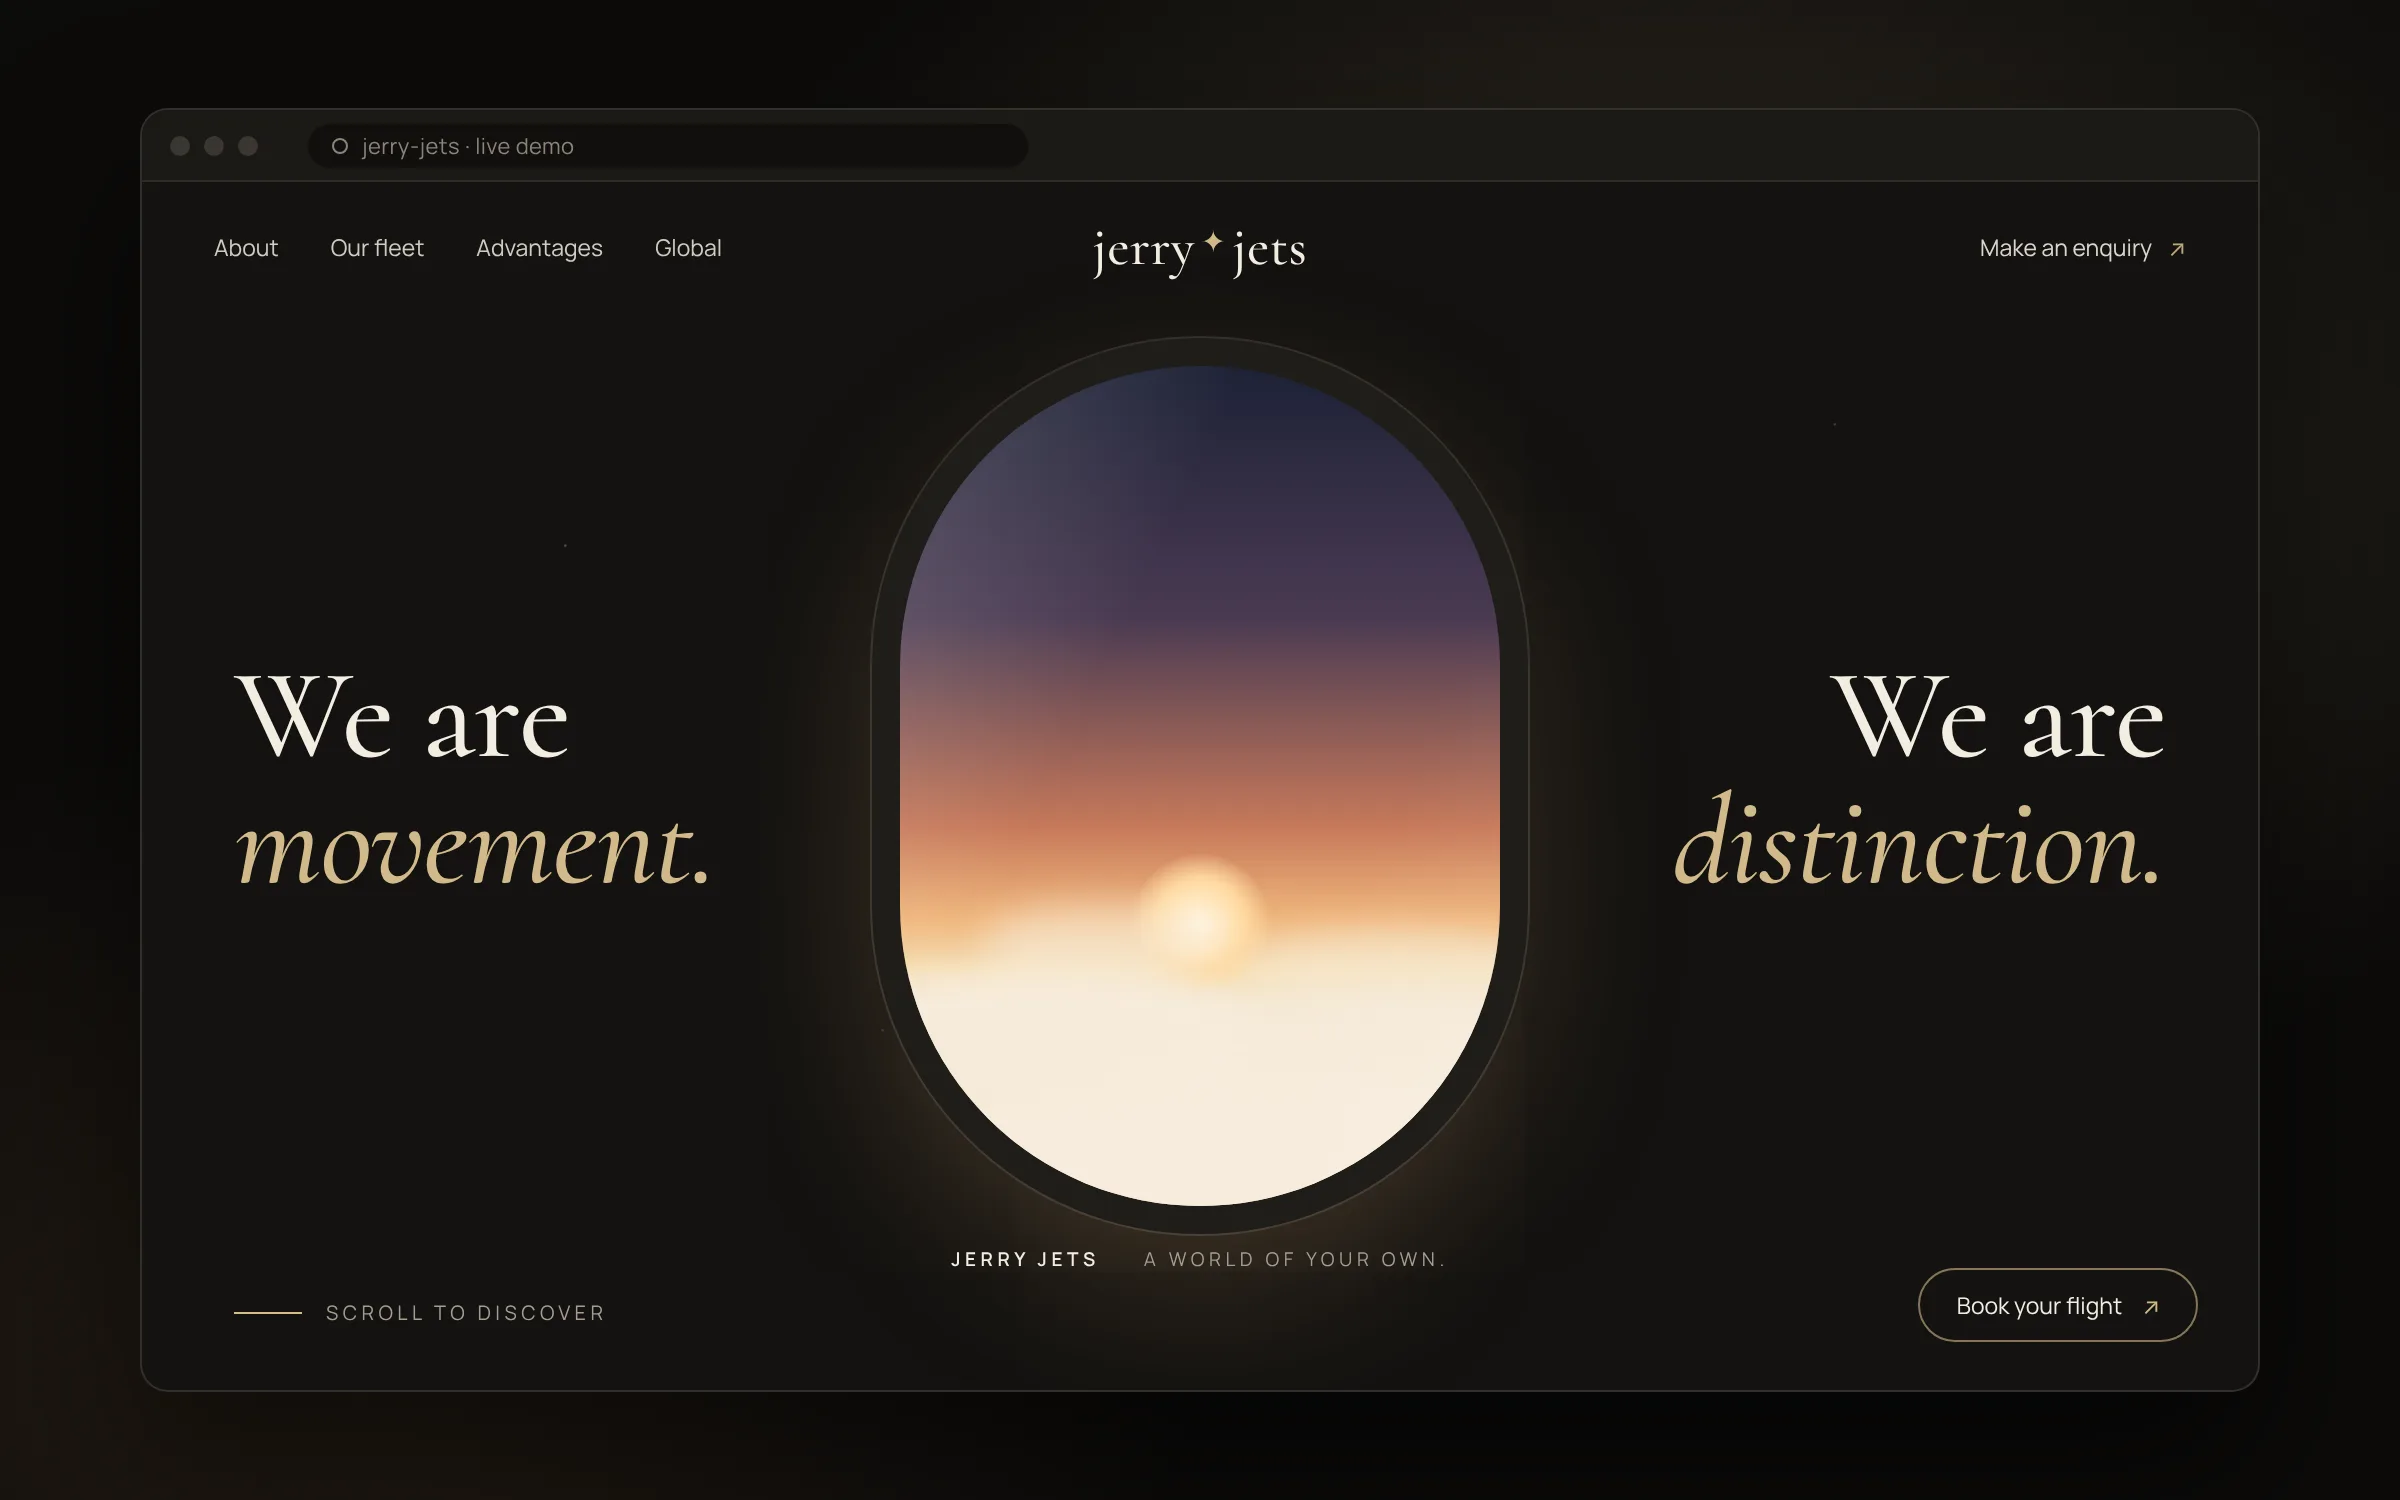
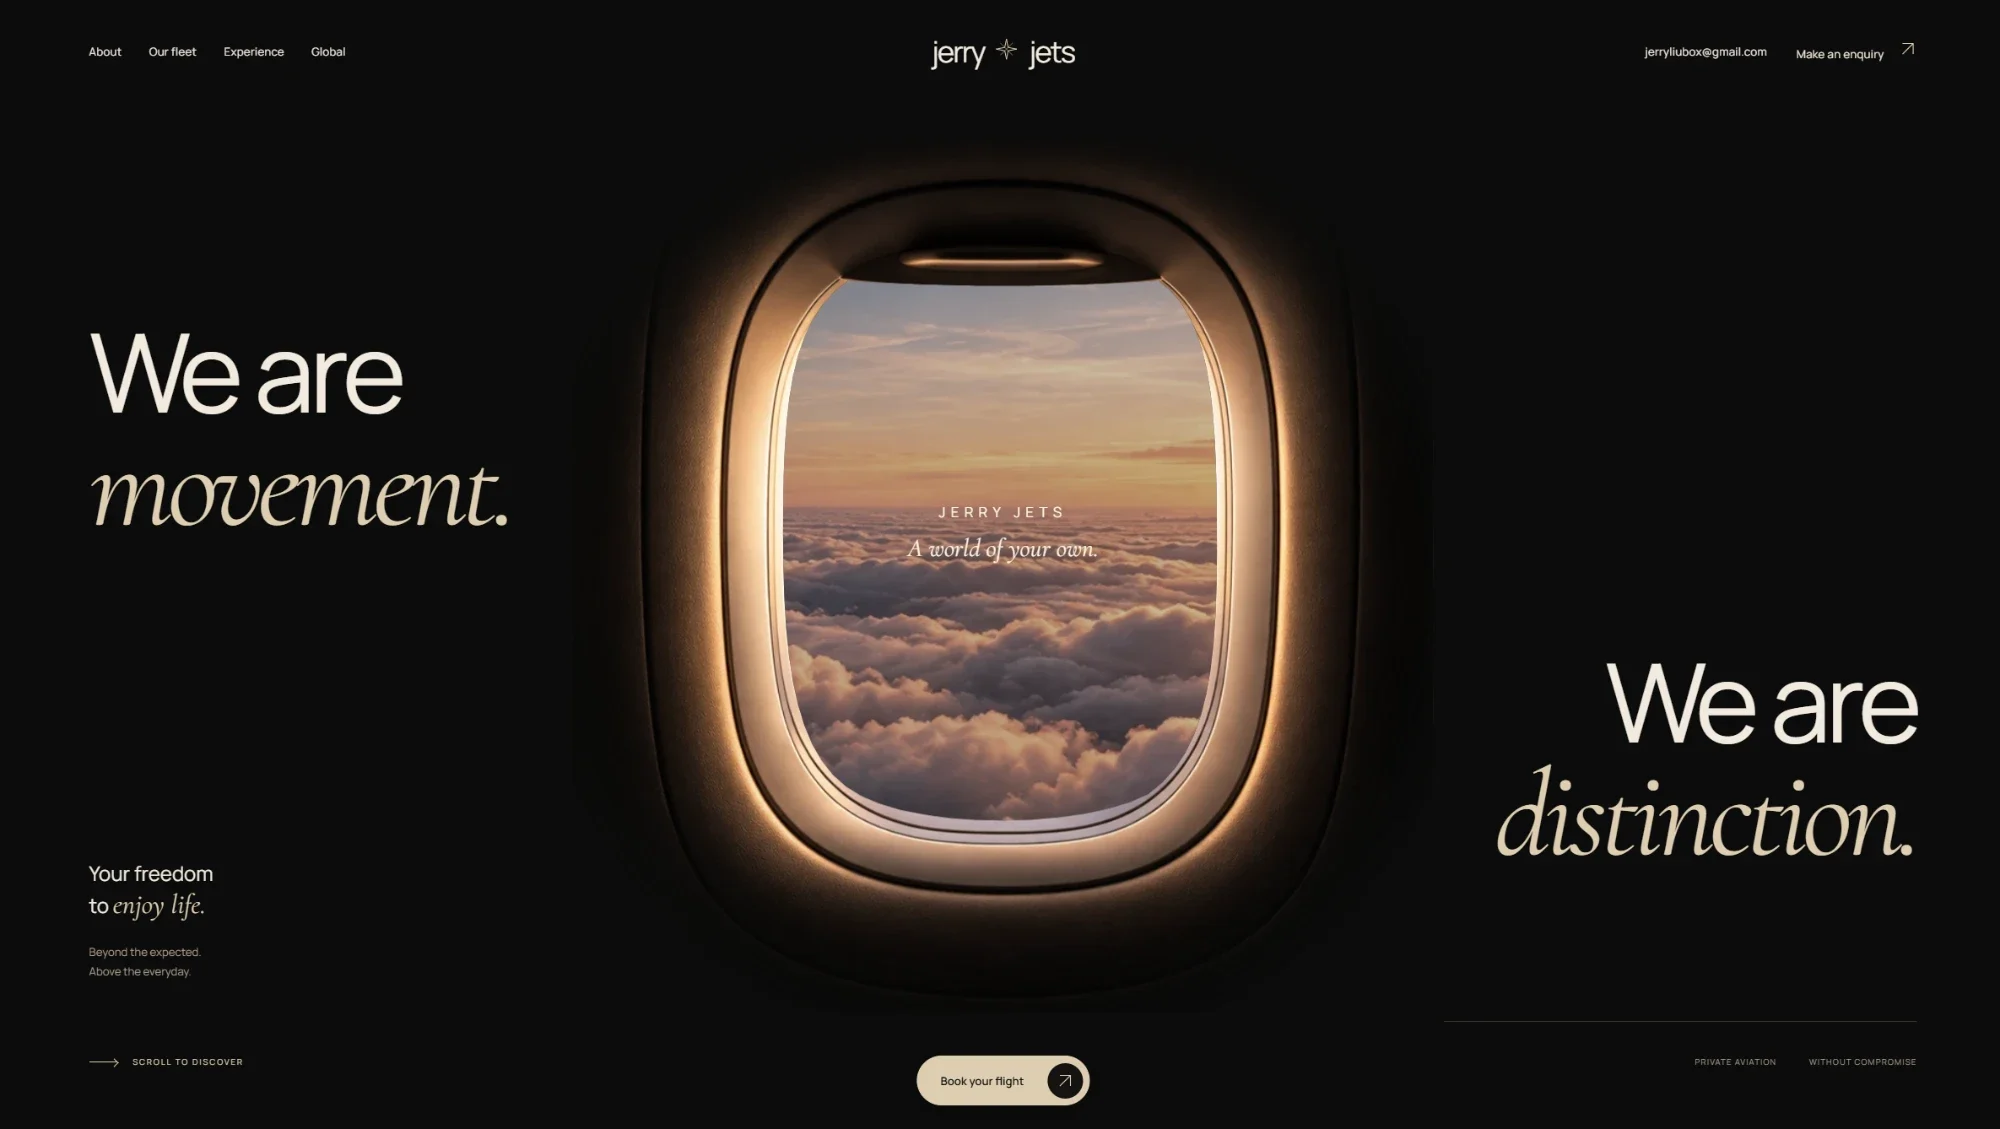
Run the Jerry Jets demo full screen at the top of the Demos page
The live site now fills the screen right under the header, loaded straight
away with no cover image or click-to-load, so visitors can scroll through its
step-by-step story and every update to the demo shows up automatically. A
slim bar above it has the name, a jump to the details and a link to the full
site; the details follow below.

The homepage card uses a real screenshot of the site as its cover and links
to the full-screen demo.

Claude-Session: https://claude.ai/code/session_015YwbfjFcxjUedsHH96HC6A

diff --git a/src/content.config.ts b/src/content.config.ts
@@ -117,8 +117,6 @@ const demos = defineCollection({
       url: z.url(),
       cover: image(),
       coverAlt: z.string(),
-      // Just the site, no browser frame: shown in the live preview until it loads
-      preview: image(),
       highlights: z.array(z.string()).default([]),
       tools: z.array(z.string()).default([]),
       order: z.number().default(100),

diff --git a/src/content/demos/jerry-jets.md b/src/content/demos/jerry-jets.md
@@ -4,8 +4,7 @@ kind: Private aviation website
 summary: A cinematic website for a private jet charter brand. You fly through the clouds as you scroll, explore the fleet, and pick a destination on a 3D globe.
 url: https://rapid-emerald-ibqcy8x-flowaai.vercel.app/
 cover: ./images/jerry-jets-cover.webp
-preview: ./images/jerry-jets-site.webp
-coverAlt: "The Jerry Jets homepage: a sunset over the clouds seen through an aircraft window, with the headlines We are movement and We are distinction in cream and champagne type on a dark background."
+coverAlt: "The Jerry Jets homepage: sunset clouds seen through a softly lit aircraft window, between the headlines We are movement and We are distinction, with a Book your flight button below."
 highlights:
   - A scroll-driven opening that flies you through the clouds
   - A fleet showcase with the aircraft, cabin layout and specs
@@ -16,7 +15,7 @@ order: 1
 zh:
   kind: 私人飞机网站
   summary: 为私人飞机包机品牌打造的电影感网站。滚动页面时仿佛穿越云层飞行，可以浏览机队，并在 3D 地球上选择目的地。
-  coverAlt: "Jerry Jets 首页：透过机窗看到的云海日落，深色背景上是奶油色和香槟色的标题 We are movement 和 We are distinction。"
+  coverAlt: "Jerry Jets 首页：透过柔光机窗看到的日落云海，两侧是标题 We are movement 和 We are distinction，下方是 Book your flight 按钮。"
   highlights:
     - 随滚动展开的开场，带你穿越云层
     - 机队展示，包括飞机、客舱布局和参数

diff --git a/README.md b/README.md
@@ -39,7 +39,7 @@ Referral links work in both languages, e.g. `/zh/?ref=dad` for Chinese-speaking 
 
 **Demo projects:** the Kinetik and Brightgate projects are demo content for this prototype, marked `concept: true` in their files (the flag isn't shown on the site). Replace them with real work before the site goes public.
 
-**Adding a demo:** copy `src/content/demos/jerry-jets.md`, change the title, link (`url`), text and images. `cover` is the card image; `preview` is the same site without a browser frame, shown in the "Try it here" frame until the live site loads. The site must allow being shown in a frame and be public (no Vercel login).
+**Adding a demo:** copy `src/content/demos/jerry-jets.md`, change the title, link (`url`), text and images. `cover` is the card image on the homepage (a screenshot works best). On the Demos page the site itself runs full screen, so changes to the demo show up there automatically. The site must be public (no Vercel login) and allow being shown in a frame.
 
 **Adding a project:** copy one of the files in `src/content/projects/`, rename it (the file name becomes the URL, e.g. `/work/my-project/`) and edit the frontmatter. `category` is one of `website`, `app`, `crm` or `ai`, which sets the project's color and work filter. To use a real screenshot, put the image next to the file and add `cover: ./my-image.png` and `coverAlt: "…"`. Automation projects can list `workflow` steps, which are drawn as a diagram.
 
